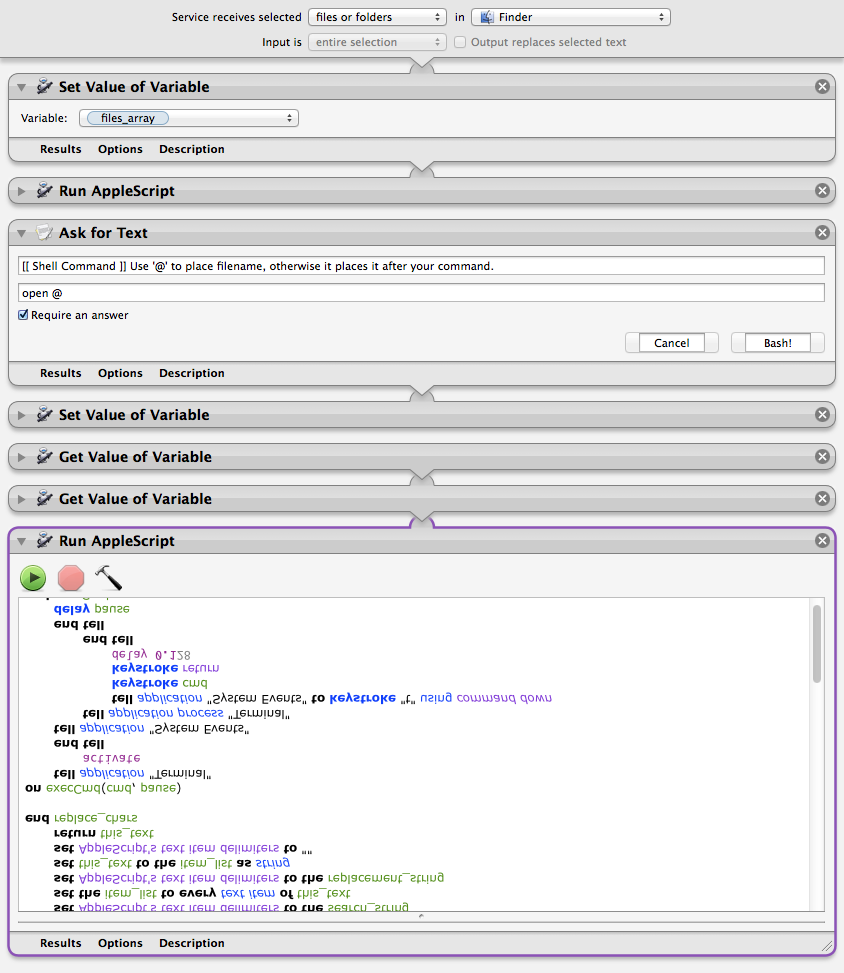
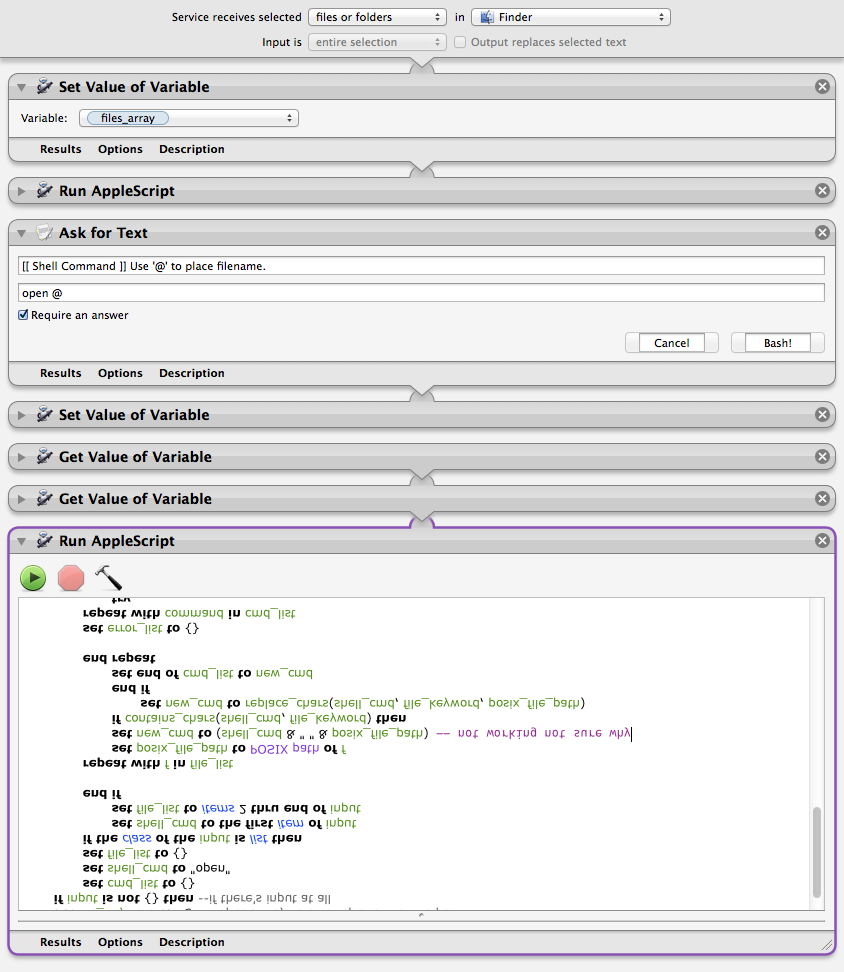
v0.5 shows output

diff --git a/README.md b/README.md
@@ -1,4 +1,4 @@
-#Run Shell Command Finder Service
+#Run Shell Command Finder Service v0.5
 ##By Stewart Bracken
 ===
 ####Mac Finder service to quickly run a shell command on selected Finder items
@@ -7,14 +7,14 @@
 1. Place 'run_command_on_files.workflow' into ~/Libary/Services
 
 ###Tips:
-* I highly recommend giving this service a keyboard shortcut. You can do this by going to System Preferences > Keyboard > Shortcuts > Services (left box), and finding the run_command_on_file item. Assign your favorite shortcut to this!
+* I highly recommend giving this service a keyboard shortcut. You can do this by going to System Preferences > Keyboard > Shortcuts > Services (left box), and finding the run_command_on_files item. Assign your favorite shortcut to this!
 ![ScreenShot](screenshot.png)
 
 
 ###Usage:
 1. Highlight items in Finder.
 2. Activate the service. Use your shortcut, or control click the selection, navtgate to Services, and select run_command_on_file.
-3. Type in a command. Place an '@' wherever you want the full absolute path to the item to be in your shell command. Or omit the '@' and the service will place the path at the end of your entry.
+3. Type in a command. Place an '@' wherever you want the full absolute path to the item to be in your shell command.
 
 ======
 
@@ -22,4 +22,11 @@
 * I haven't tested this extensively because I just made it, let me know if you find any bugs.
 
 #####Bugs:
-* rm doesn't work.
+* rm doesn't work. fixed in v0.5
+
+======
+
+###Changelog:
+####v0.5
+* updated applescript algorithm to a simplified terminal do script process.
+* for each selected finder item, a new terminal window opens to easily view script output.
